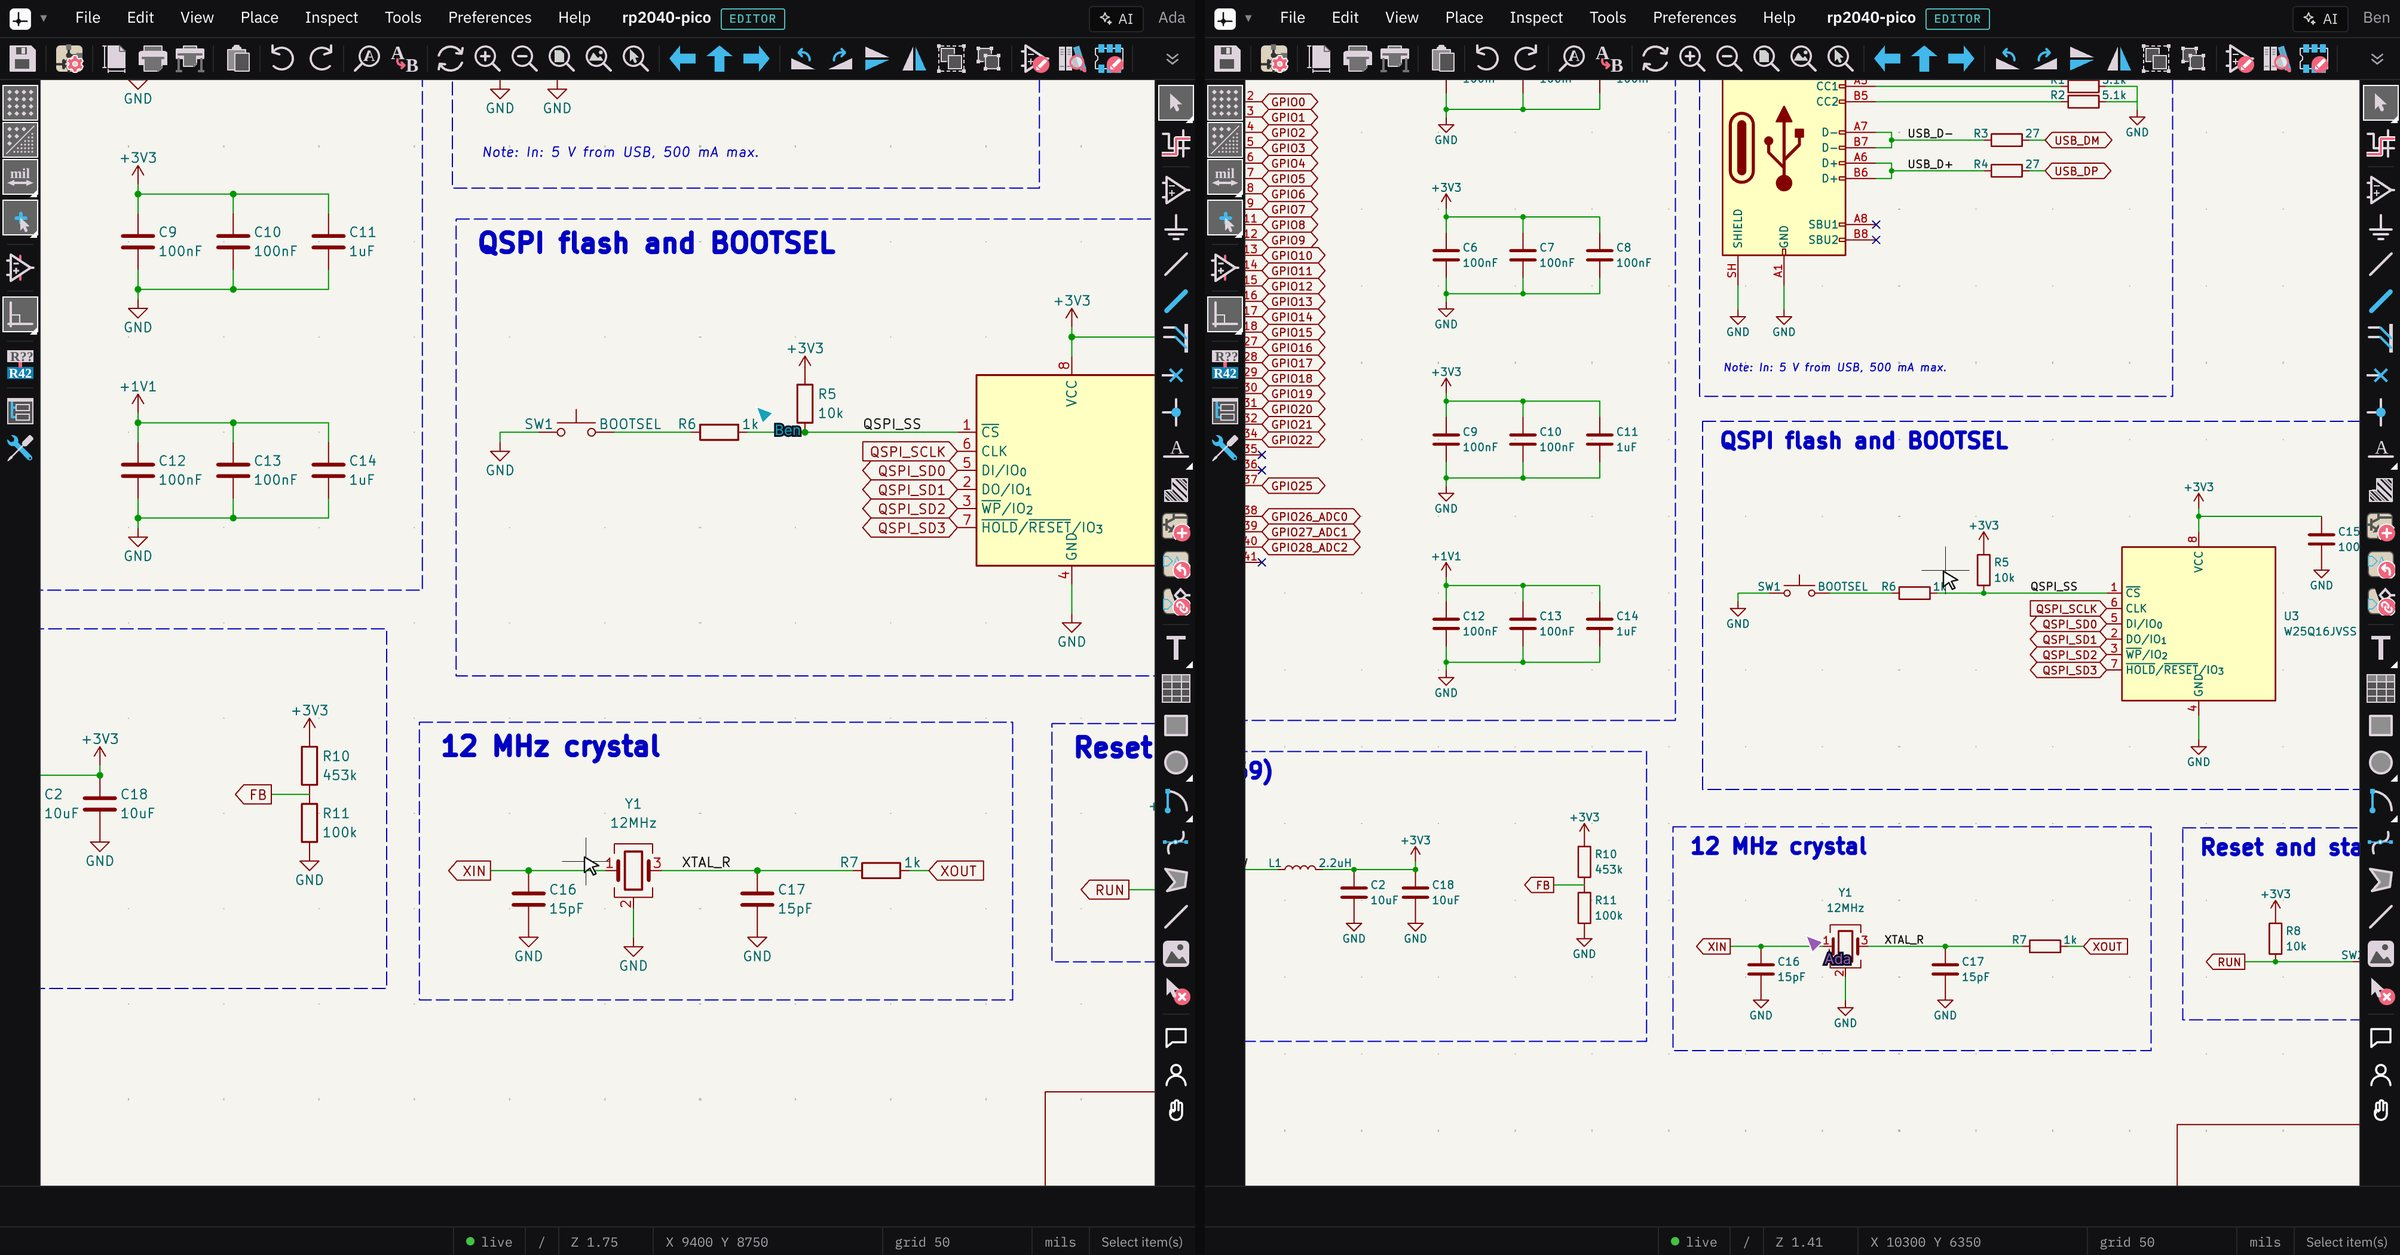
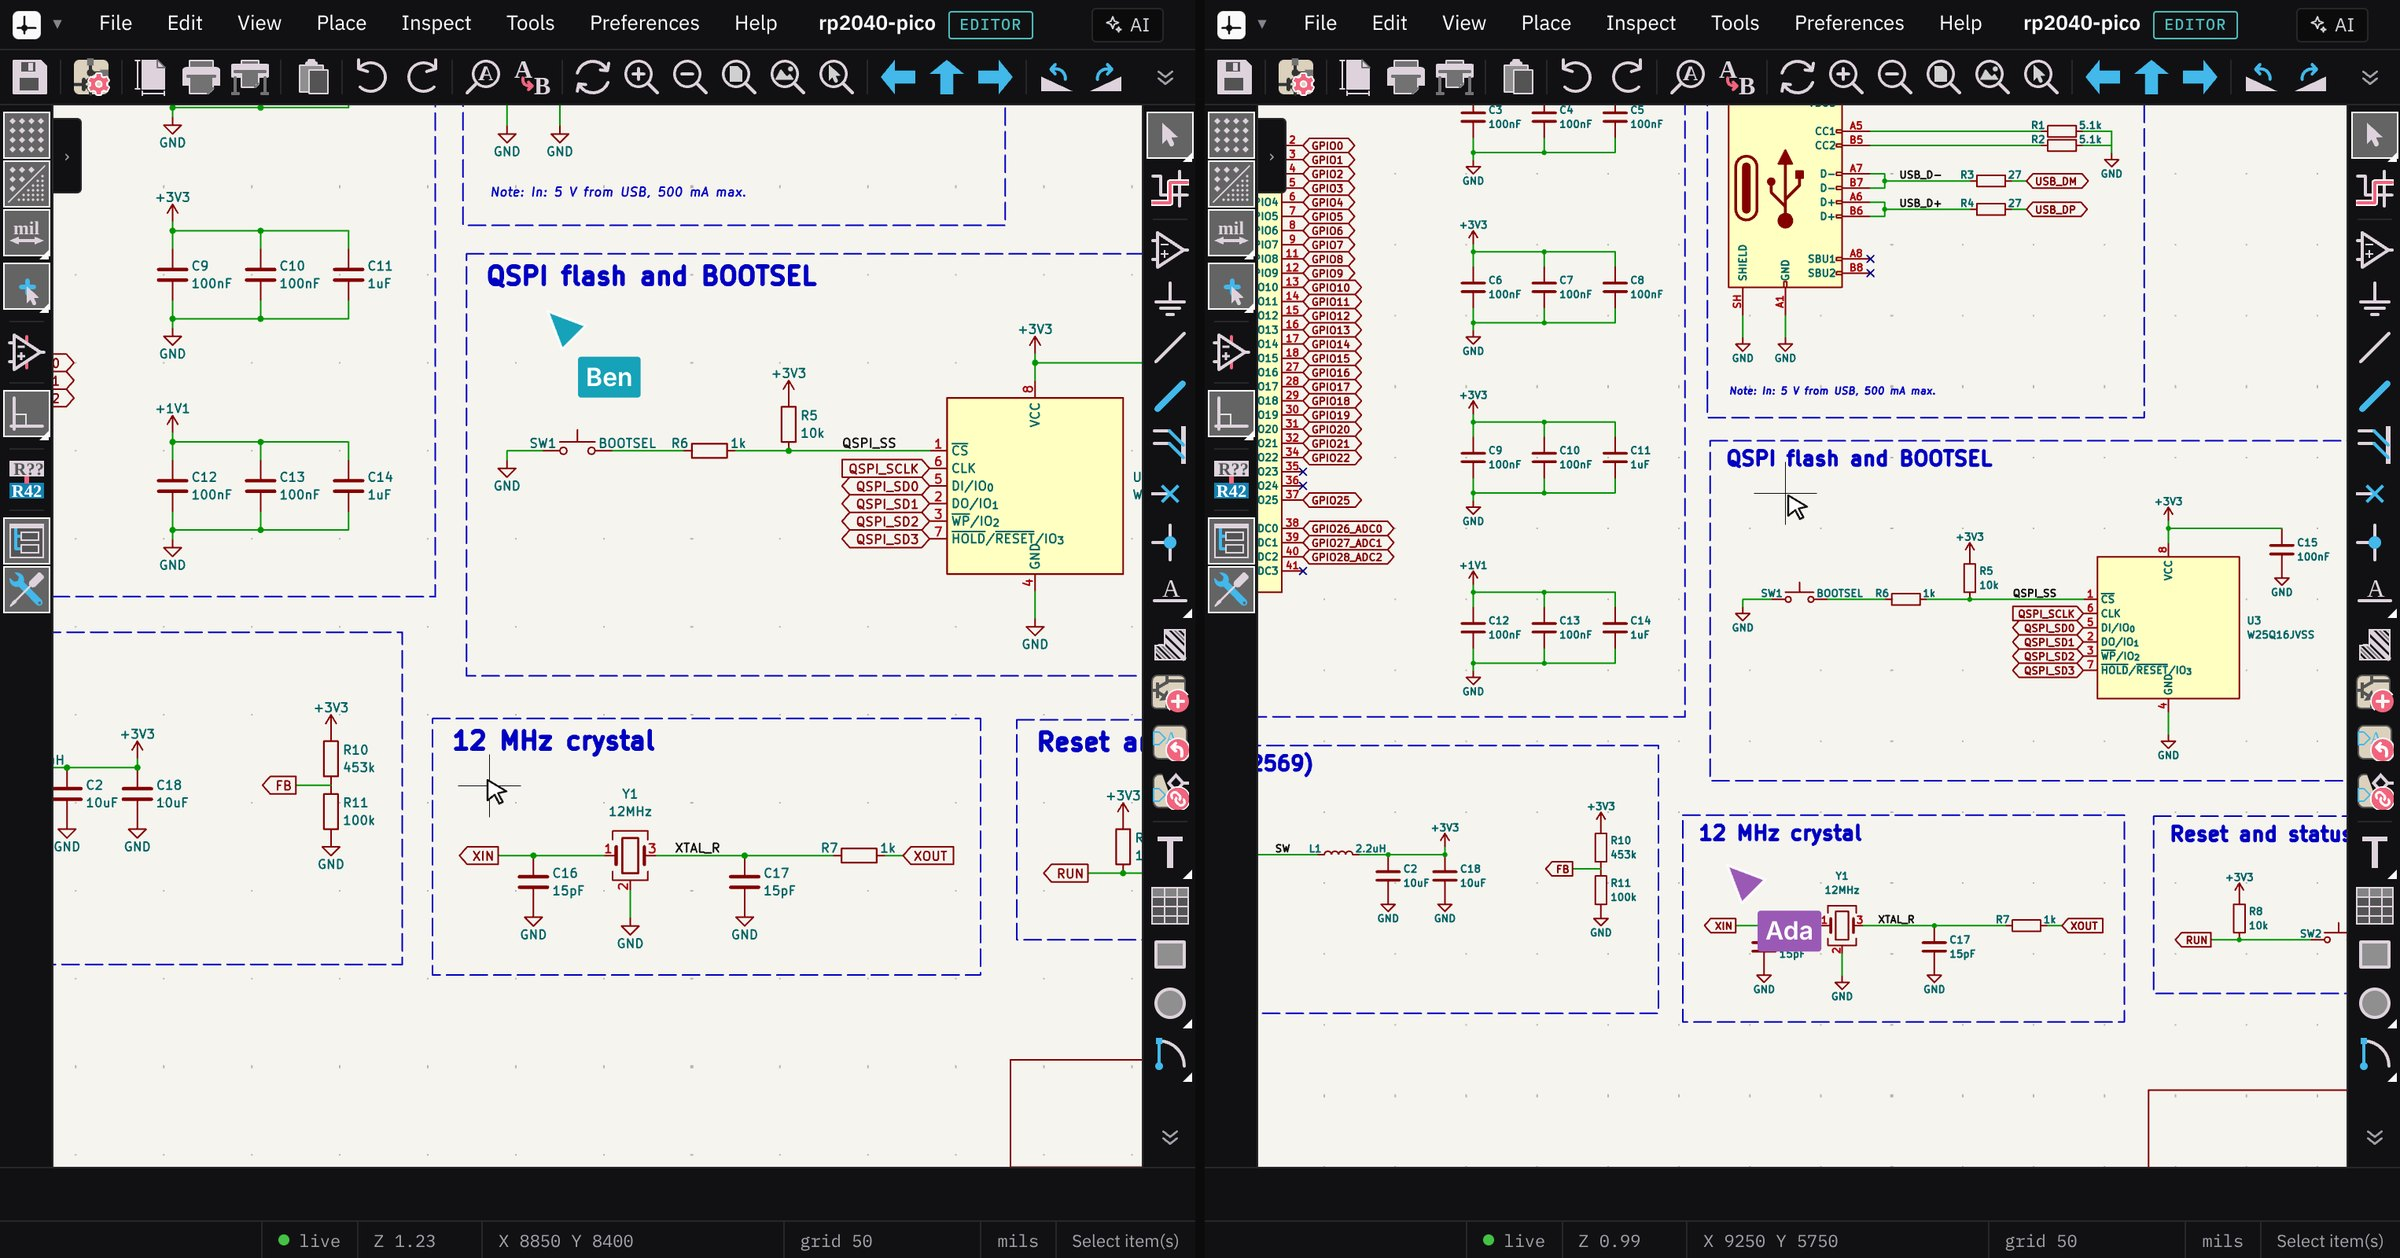
Bigger collaborator cursors with a filled name tag, and README shots retaken
The browser editor drew a collaborator's name as bare coloured text, hard to see over a
schematic; it now draws the desktop's name tag (a chip in the peer's colour, the name in black
or white by KiCad's brightness formula). Both now use a 24 px pointer and 16 px name text. The
README's two-editor pictures are retaken with them.

diff --git a/server/web/editor/view.ts b/server/web/editor/view.ts
@@ -317,6 +317,15 @@ function peerBoxesOf(ids: Iterable<string>) {
   return out;
 }
 
+// A peer's pointer and name tag, in screen pixels (the desktop's COLLAB_CURSOR_ITEM uses the same sizes).
+const PEER_CURSOR_PX = 24, PEER_TAG_TEXT_PX = 16, PEER_TAG_PAD_PX = 5;
+/** Brightness 0..1 of a #rgb / #rrggbb colour, as COLOR4D::GetBrightness (its weighted W3C formula). */
+function brightness(c: string): number {
+  const h = c.replace("#", ""), f = h.length === 3 ? h.split("").map((d) => d + d).join("") : h.slice(0, 6);
+  const n = parseInt(f, 16); if (!Number.isFinite(n)) return 0;
+  return (((n >> 16) & 255) * 0.299 + ((n >> 8) & 255) * 0.587 + (n & 255) * 0.117) / 255;
+}
+
 export function drawPeers(peers: Record<string, PeerEntry>) {
   peersG.replaceChildren();
   const s = pxPerMm(), mm = (nm: number) => nm / E.IU;
@@ -369,15 +378,30 @@ export function drawPeers(peers: Record<string, PeerEntry>) {
       peersG.appendChild(rect);
     }
     if (Array.isArray(st.cursor)) {
-      const x = mm(st.cursor[0]), y = mm(st.cursor[1]), t = 14 / s;
+      // COLLAB_CURSOR_ITEM's pointer and name tag: a triangle in the peer colour with its tip on the
+      // cursor, and below-right of it a chip filled with that colour, the name in black or white on it.
+      const x = mm(st.cursor[0]), y = mm(st.cursor[1]), t = PEER_CURSOR_PX / s, th = PEER_TAG_TEXT_PX / s, pad = PEER_TAG_PAD_PX / s;
       const tri = document.createElementNS(NS, "path");
       tri.setAttribute("d", `M ${x} ${y} L ${x + 0.38 * t} ${y + t} L ${x + t} ${y + 0.38 * t} Z`);
-      tri.setAttribute("fill", color); tri.setAttribute("stroke", "white"); tri.setAttribute("stroke-width", 1 / s);
+      tri.setAttribute("fill", color); tri.setAttribute("stroke", "white"); tri.setAttribute("stroke-opacity", "0.9"); tri.setAttribute("stroke-width", 1.5 / s);
+      tri.setAttribute("stroke-linejoin", "round");
       peersG.appendChild(tri);
-      const label = svgText(x + 1.1 * t, y + 1.7 * t, 12 / s, color, E.followPeer === cid ? name + " ✔" : name);
-      label.style.pointerEvents = "auto"; label.style.cursor = "pointer";
-      label.addEventListener("click", (ev) => { ev.stopPropagation(); E.followPeer = E.followPeer === cid ? null : cid; toast(E.followPeer ? `Following ${name}` : "Stopped following"); renderPeers(); });
-      peersG.appendChild(label);
+      const tag = document.createElementNS(NS, "g");
+      tag.style.pointerEvents = "auto"; tag.style.cursor = "pointer";
+      const cx = x + 0.8 * t, cy = y + 1.2 * t;
+      const chip = document.createElementNS(NS, "rect");
+      chip.setAttribute("x", cx); chip.setAttribute("y", cy); chip.setAttribute("height", th + 2 * pad); chip.setAttribute("rx", 2 / s);
+      chip.setAttribute("fill", color);
+      const label = document.createElementNS(NS, "text");
+      label.setAttribute("x", cx + pad); label.setAttribute("y", cy + pad + th / 2); label.setAttribute("dominant-baseline", "central");
+      label.setAttribute("font-size", th); label.setAttribute("font-weight", "600"); label.setAttribute("font-family", "system-ui, sans-serif");
+      label.setAttribute("fill", brightness(color) > 0.5 ? "#000" : "#fff");
+      label.textContent = E.followPeer === cid ? name + " ✔" : name;
+      tag.appendChild(chip); tag.appendChild(label); peersG.appendChild(tag);
+      let tw = 0; try { tw = label.getComputedTextLength(); } catch { /* not laid out */ }
+      if (!(tw > 0)) tw = label.textContent.length * 0.6 * th;
+      chip.setAttribute("width", tw + 2 * pad);
+      tag.addEventListener("click", (ev) => { ev.stopPropagation(); E.followPeer = E.followPeer === cid ? null : cid; toast(E.followPeer ? `Following ${name}` : "Stopped following"); renderPeers(); });
     }
   }
   const had = (E.peerGhosts || []).length; E.peerGhosts = ghosts;

diff --git a/common/collab/collab_cursor_item.cpp b/common/collab/collab_cursor_item.cpp
@@ -66,10 +66,10 @@ void COLLAB_CURSOR_ITEM::ViewDraw( int aLayer, KIGFX::VIEW* aView ) const
     // World units per screen pixel, so everything holds a constant on-screen size.
     const double w = 1.0 / scale;
 
-    const double cursorPx = 16.0;    // pointer triangle height
-    const double textPx = 12.0;      // name tag glyph height
+    const double cursorPx = 24.0;    // pointer triangle height (the web editor uses the same sizes)
+    const double textPx = 16.0;      // name tag glyph height
     const double selLinePx = 1.5;    // selection outline width
-    const double padPx = 3.0;        // name tag padding
+    const double padPx = 5.0;        // name tag padding
 
     for( const REMOTE_PEER_DRAW& peer : m_peers )
     {

diff --git a/README.md b/README.md
@@ -39,7 +39,7 @@ Projects are ordinary KiCad files. Everyone in a project should be on 2.0: it is
 
 <table>
 <tr>
-<td width="50%"><img src="docs/media/together.jpg" alt="Ada and Ben drawing one Raspberry Pi Pico schematic from two browsers, each showing the other person's named cursor" width="100%"><br><b>Live editing.</b> Two people in one schematic or board, on the desktop or in the browser, each with their own view. Cursors, selections, drags in progress and edits arrive as they happen.</td>
+<td width="50%"><img src="docs/media/together.jpg" alt="Ada and Ben in one Raspberry Pi Pico schematic from two browsers, each showing the other person's cursor and name tag" width="100%"><br><b>Live editing.</b> Two people in one schematic or board, on the desktop or in the browser, each with their own view. Cursors, selections, drags in progress and edits arrive as they happen.</td>
 <td width="50%"><img src="docs/media/ai-board.jpg" alt="The routed four-layer Raspberry Pi Pico board from the video in the browser editor, laid out by harness scripts through MCP" width="100%"><br><b>Design with any AI.</b> An MCP server lets Claude, ChatGPT, Gemini, Cursor or a local model read and edit your projects. Its edits appear in everyone's editor, with a cursor on them.</td>
 </tr>
 <tr>
